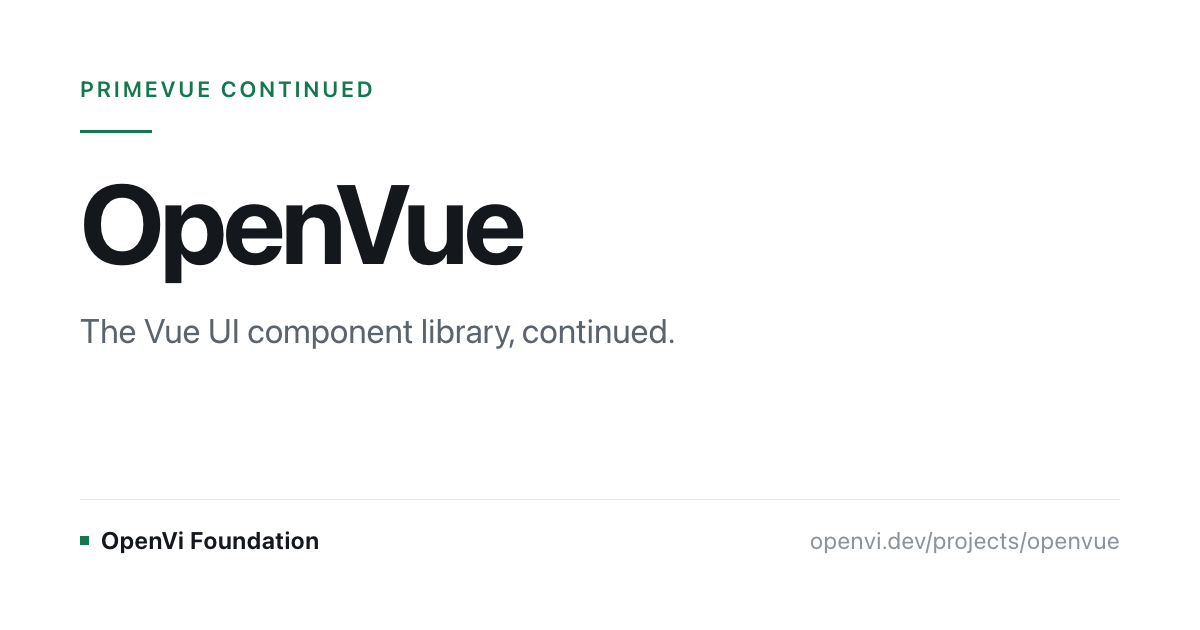
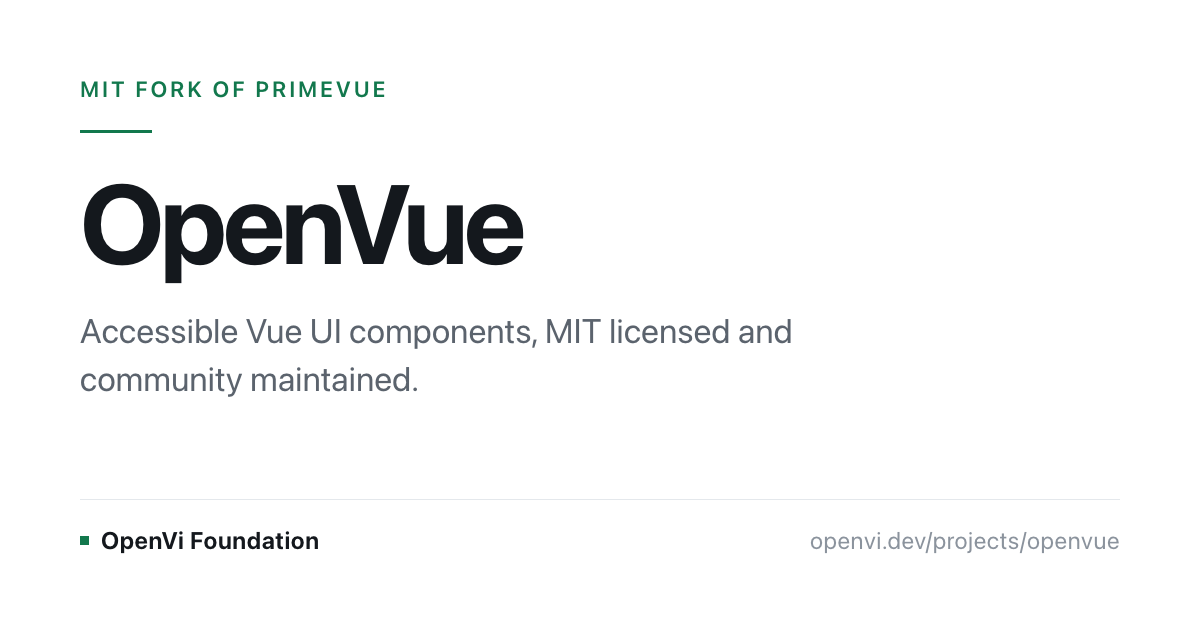
feat: changed content of website

Changed region(s): [[0.0617, 0.5127, 0.6783, 0.5429], [0.0617, 0.573, 0.3392, 0.6333], [0.0617, 0.1206, 0.3392, 0.1508]]

diff --git a/src/data/projects.js b/src/data/projects.js
@@ -2,7 +2,7 @@ export const projects = [
     {
         slug: 'openvue',
         name: 'OpenVue',
-        tagline: 'The Vue UI component library, continued.',
+        tagline: 'Accessible Vue UI components, MIT licensed and community maintained.',
         status: 'stable',
         version: '1.1.0',
         repo: 'https://github.com/openvi-foundation/openvue',
@@ -13,9 +13,9 @@ export const projects = [
         install: 'npm install openvue @openvue/themes',
         language: 'Vue',
         license: 'MIT',
-        continues: 'PrimeVue',
-        upstreamStatus: 'Security fixes only',
-        upstreamNote: 'security fixes only upstream, new development no longer MIT',
+        forkedFrom: 'PrimeVue',
+        upstreamStatus: 'v4: security fixes only',
+        upstreamNote: 'PrimeVue 4 gets security fixes only, PrimeVue 5 is not MIT',
         guides: [
             {
                 href: '/projects/openvue/migrate',
@@ -37,12 +37,12 @@ export const projects = [
             }
         ],
         summary:
-            'A community-maintained continuation of PrimeVue, one of the most widely adopted Vue.js component libraries, picked up after its MIT-licensed 4.x line stopped moving. 80+ accessible, themeable components for Vue and Nuxt.',
+            'A community-maintained fork of PrimeVue 4.5.5, the last PrimeVue release under the MIT license, developed independently by the OpenVi Foundation. 80+ accessible, themeable components for Vue and Nuxt.',
         metaDescription:
-            'OpenVue is the maintained continuation of PrimeVue: 80+ accessible Vue and Nuxt components, an unchanged API, MIT licensed. Migrate with one command.',
+            'OpenVue is an MIT-licensed fork of PrimeVue 4.5.5: 80+ accessible Vue and Nuxt components with a compatible API. Migrate with one command.',
         why: [
-            'PrimeVue 4 was archived, then reopened for security fixes only. New development moved to PrimeVue 5 under a license that is no longer MIT, while a lot of production applications still depend on the MIT 4.x line. Teams running it were left choosing between freezing the dependency, accepting a new license and rewriting their UI layer.',
-            'OpenVue keeps the same component API, so existing code keeps working. The MIT license is unchanged and stays that way.',
+            'PrimeVue 4 now receives security fixes only, and new development moved to PrimeVue 5 under a license that is not MIT, while a lot of production applications still depend on the MIT 4.x line. Teams running it were left choosing between freezing the dependency, accepting a new license and rewriting their UI layer.',
+            'OpenVue keeps the same component API, so existing code keeps working. The MIT license that PrimeVue 4.5.5 was released under permits the fork, PrimeTek\'s copyright notice is kept in every package, and OpenVue stays MIT.',
             'We forked the whole toolchain rather than just the components. The theming engine and the icon set are maintained here too, so nothing critical resolves at runtime from a scope we do not control.'
         ],
         highlights: [
@@ -67,7 +67,7 @@ export const projects = [
             guide: 'https://github.com/openvi-foundation/openvue/blob/master/CONTRIBUTING.md',
             setup: 'git clone https://github.com/openvi-foundation/openvue.git\ncd openvue\npnpm install\npnpm run dev',
             help: [
-                'Reproducing, triaging and fixing issues inherited from PrimeVue.',
+                'Reproducing, triaging and fixing issues that predate the fork.',
                 'Migration reports: anything `npx @openvue/migrate` misses in a real codebase.',
                 'Accessibility testing with real screen readers, reported against specific versions.',
                 'Documentation gaps on [openvue.dev](https://openvue.dev), especially theming and unstyled mode.'
@@ -88,7 +88,7 @@ export const projects = [
     {
         slug: 'openicons',
         name: 'OpenIcons',
-        tagline: 'The icon library for OpenVue, continued.',
+        tagline: 'An MIT-licensed icon set for OpenVue and the web.',
         status: 'stable',
         version: '1.1.0',
         repo: 'https://github.com/openvi-foundation/openicons',
@@ -99,21 +99,21 @@ export const projects = [
         install: 'npm install @openvue/openicons',
         language: 'CSS',
         license: 'MIT',
-        continues: 'PrimeIcons',
-        upstreamStatus: 'Archived',
+        forkedFrom: 'PrimeIcons',
+        upstreamStatus: 'MIT repository archived',
         summary:
-            'A community-maintained continuation of PrimeIcons, the icon font used by PrimeVue and the wider Prime ecosystem. 329 icons, shipped as a dependency-free webfont and as tree-shakeable Vue 3 components.',
+            'A community-maintained fork of PrimeIcons, the icon font used by PrimeVue. 329 icons, shipped as a dependency-free webfont and as tree-shakeable Vue 3 components.',
         metaDescription:
-            'OpenIcons is the maintained continuation of PrimeIcons: 329 icons as a dependency-free webfont or tree-shakeable Vue components. MIT licensed.',
+            'OpenIcons is an MIT-licensed fork of PrimeIcons: 329 icons as a dependency-free webfont or tree-shakeable Vue components. MIT licensed.',
         why: [
-            'The MIT-licensed PrimeIcons repository was archived, so every application using the `pi pi-*` classes needed a maintained replacement.',
+            'The MIT-licensed PrimeIcons repository was archived, so applications using the `pi pi-*` classes had no actively maintained MIT source to depend on.',
             'OpenIcons ships a compatibility stylesheet. Existing `pi-` class names keep rendering while a codebase moves to `oi-` at its own pace.',
             'The webfont has no dependencies, no build step and no runtime: it is a font and a stylesheet. Projects that would rather ship only the icons they use can import the Vue components instead.'
         ],
         highlights: [
             {
                 title: '329 icons',
-                body: 'The complete PrimeIcons set carried forward under an unchanged MIT license, plus sixteen icons drawn since the fork. Search them all at [openicons.openvue.dev](https://openicons.openvue.dev).'
+                body: 'Every icon from the PrimeIcons fork under the same MIT license, plus sixteen icons drawn since the fork. Search them all at [openicons.openvue.dev](https://openicons.openvue.dev).'
             },
             {
                 title: 'Webfont or Vue components',
@@ -156,15 +156,15 @@ export const projects = [
         install: 'npm install @openuxkit/themes',
         language: 'TypeScript',
         license: 'MIT',
-        continues: 'PrimeUIX',
-        upstreamStatus: 'Archived',
+        forkedFrom: 'PrimeUIX',
+        upstreamStatus: 'MIT repository archived',
         summary:
             'The styling and theming engine underneath OpenVue, forked from the last MIT-licensed PrimeUIX source and maintained independently. Framework-agnostic.',
         metaDescription:
-            'OpenUXKit is the maintained continuation of PrimeUIX: the framework-agnostic CSS-in-JS theming engine and design tokens behind OpenVue. MIT licensed.',
+            'OpenUXKit is an MIT-licensed fork of PrimeUIX: the framework-agnostic CSS-in-JS theming engine and design tokens behind OpenVue. MIT licensed.',
         why: [
-            'OpenVue used to resolve its theming engine at runtime from a package scope we do not control. That put the styling layer at the mercy of somebody else\'s licensing decisions.',
-            'OpenUXKit was taken from the last MIT-licensed PrimeUIX source, so the styling layer cannot be relicensed out from under the projects that depend on it.',
+            'OpenVue used to resolve its theming engine at runtime from a package scope we do not control, so a licensing change there would have reached every OpenVue project.',
+            'OpenUXKit was forked from the last MIT-licensed PrimeUIX source, so the styling layer cannot be relicensed out from under the projects that depend on it.',
             'It is framework-agnostic, so the same theming engine and design tokens can back component libraries outside Vue.'
         ],
         highlights: [
@@ -205,7 +205,7 @@ export const projects = [
     {
         slug: 'openvolt',
         name: 'OpenVolt',
-        tagline: 'Tailwind CSS components for OpenVue, continued.',
+        tagline: 'Tailwind CSS components for OpenVue that you copy and own.',
         status: 'stable',
         version: '1.1.0',
         repo: 'https://github.com/openvi-foundation/openvue/tree/master/packages/volt-cli',
@@ -216,16 +216,16 @@ export const projects = [
         install: 'npx openvolt-vue add Button',
         language: 'Vue',
         license: 'MIT',
-        continues: 'PrimeVue Volt',
-        upstreamStatus: 'Security fixes only',
-        upstreamNote: 'built on PrimeVue v4, now security-only upstream',
+        forkedFrom: 'PrimeVue Volt',
+        upstreamStatus: 'Built on PrimeVue 4',
+        upstreamNote: 'built on PrimeVue 4, which gets security fixes only',
         summary:
-            'A maintained continuation of Volt, the Tailwind CSS components built on unstyled PrimeVue. 69 components you copy into your project as plain .vue files and own from then on, built on OpenVue and released with it.',
+            'A community-maintained fork of Volt, the MIT-licensed Tailwind CSS components built on unstyled PrimeVue. 69 components you copy into your project as plain .vue files and own from then on, built on OpenVue and released with it.',
         metaDescription:
-            'OpenVolt continues PrimeVue Volt: 69 Tailwind CSS components for OpenVue that you copy into your project and own. Tested in CI, MIT licensed.',
+            'OpenVolt is an MIT-licensed fork of PrimeVue Volt: 69 Tailwind CSS components for OpenVue that you copy into your project and own. Tested in CI, MIT licensed.',
         why: [
-            'Volt depends on PrimeVue v4, which has moved to security-only maintenance with a read-only issue tracker. Projects built on Volt had nowhere to report a broken component.',
-            'OpenVolt is the same 69 components and the same design, rebuilt on `openvue` instead of `primevue`. It lives in the OpenVue repository and ships with every OpenVue release, so the components and the library underneath them cannot drift apart.',
+            'Volt depends on PrimeVue 4, which now receives security fixes only, so projects built on Volt had no actively developed MIT line underneath them.',
+            'OpenVolt is the same 69 components and the same design under the same MIT license, rebuilt on `openvue` instead of `primevue`. It lives in the OpenVue repository and ships with every OpenVue release, so the components and the library underneath them cannot drift apart.',
             'The upstream CLI cloned the repository and copied whatever was on the main branch at that moment. The OpenVolt CLI carries its components inside the published package, so an install always gives you files from a release, matched to your OpenVue version.'
         ],
         highlights: [

diff --git a/src/data/articles.js b/src/data/articles.js
@@ -8,7 +8,7 @@ const sources = {
 export const articles = [
     {
         slug: 'primevue-v4-stopped-active-dev-openvue-takes-over',
-        title: 'PrimeVue v4 stopped active development. OpenVue takes over, on MIT.',
+        title: 'PrimeVue v4 moved to security-only maintenance. OpenVue forks it, on MIT.',
         kind: 'article',
         date: '2026-08-29',
         author: 'Nikola Jevrić',
@@ -21,7 +21,7 @@ export const articles = [
         summary:
             'What security-only maintenance means for teams running PrimeVue v4 in production, and why the foundation forked 4.5.5 rather than let the MIT line stop there.',
         metaDescription:
-            'PrimeVue v4 moved to security-only maintenance. OpenVue continues 4.5.5 under MIT, with the same API and a one-command migration.',
+            'PrimeVue v4 moved to security-only maintenance. OpenVue is an MIT fork of 4.5.5, with the same API and a one-command migration.',
         body: [
             {
                 t: 'p',
@@ -38,7 +38,7 @@ export const articles = [
             { t: 'p', text: 'To address this gap, we launched [OpenVue](https://openvue.dev/).' },
             {
                 t: 'p',
-                text: 'OpenVue is an independent, community-driven continuation of PrimeVue 4.5.5, the final release under open-source governance. Maintained under the [OpenVi Foundation](https://openvi.dev), it operates as a fully open-source, MIT-licensed ecosystem free from commercial gating or paywalled functionality. It maintains total architectural fidelity across 80+ core components, preserving full parity with existing props, slots, events, and theming systems, while unifying icon sets and design tooling under a single ecosystem.'
+                text: 'OpenVue is an independent, community-driven fork of PrimeVue 4.5.5, the last PrimeVue release under the MIT license. Maintained under the [OpenVi Foundation](https://openvi.dev), it operates as a fully open-source, MIT-licensed ecosystem. It maintains total architectural fidelity across 80+ core components, preserving full parity with existing props, slots, events, and theming systems, while unifying icon sets and design tooling under a single ecosystem.'
             },
             {
                 t: 'p',
@@ -46,7 +46,7 @@ export const articles = [
             },
             {
                 t: 'p',
-                text: 'You can run the official CLI migration utility to update your project automatically:'
+                text: 'You can run the OpenVue migration CLI to update your project automatically:'
             },
             { t: 'code', lang: 'shell', code: 'npx @openvue/migrate' },
             {
@@ -56,7 +56,7 @@ export const articles = [
             {
                 t: 'code',
                 lang: 'diff',
-                code: "- import Button from 'primevue/button'\n+ import Button from '@openvue/button'"
+                code: "- import Button from 'primevue/button'\n+ import Button from 'openvue/button'"
             },
             {
                 t: 'p',
@@ -68,7 +68,7 @@ export const articles = [
             },
             {
                 t: 'note',
-                text: 'OpenVue is an independent, community-maintained MIT project based on the PrimeVue 4.5.5 release and is not affiliated with PrimeTek.'
+                text: 'OpenVue is an independent, community-maintained MIT fork of the PrimeVue 4.5.5 release and is not affiliated with, sponsored by, or endorsed by PrimeTek. PrimeVue is a name of its respective owner.'
             }
         ]
     },
@@ -257,11 +257,11 @@ export const articles = [
             { t: 'p', text: 'Hey Vue community!' },
             {
                 t: 'p',
-                text: "We're long-time PrimeVue users who believe a good UI library should stay free and community driven. When the license changed and PrimeVue moved away from open source, we decided to take action rather than just watch."
+                text: "We're long-time PrimeVue users who believe a good UI library should stay free and community driven. When new PrimeVue development moved to a license that is not MIT, we decided to fork the last MIT release rather than just watch."
             },
             {
                 t: 'p',
-                text: 'OpenVue picks up right from 4.5.5, the last MIT release. It keeps the exact same API, so your existing code keeps working without rewrite headaches.'
+                text: 'OpenVue is forked from 4.5.5, the last MIT release. It keeps the exact same API, so your existing code keeps working without rewrite headaches.'
             },
             {
                 t: 'p',
@@ -273,7 +273,7 @@ export const articles = [
             },
             {
                 t: 'p',
-                text: 'OpenVi Foundation is an independent community organization, not affiliated with PrimeTek.'
+                text: 'OpenVi Foundation is an independent community organization, not affiliated with or endorsed by PrimeTek.'
             },
             { t: 'p', text: 'OpenVue is and will always be 100% free and open source.' },
             {
@@ -387,7 +387,7 @@ export const articles = [
             },
             {
                 t: 'p',
-                text: 'When we forked PrimeVue 4.5.5 as [OpenVue](https://openvue.dev/), the goal was to keep the whole MIT ecosystem alive, not only the component library. Volt was the piece still missing, and with OpenVolt it is back: maintained, tested and released together with OpenVue.'
+                text: 'When we forked PrimeVue 4.5.5 as [OpenVue](https://openvue.dev/), the goal was to keep the whole MIT ecosystem alive, not only the component library. Volt was the piece still missing, and OpenVolt is our MIT fork of it: maintained, tested and released together with OpenVue.'
             },
             { t: 'h2', text: 'What is Volt?' },
             {
@@ -405,7 +405,7 @@ export const articles = [
             },
             {
                 t: 'p',
-                text: 'PrimeVue Volt depends on PrimeVue v4, which has moved to security-only maintenance with read-only issue tracking. OpenVolt lives in the OpenVue repository, ships with every OpenVue release, and has an open issue tracker if something needs fixing.'
+                text: 'PrimeVue Volt depends on PrimeVue v4, which has moved to security-only maintenance. OpenVolt lives in the OpenVue repository, ships with every OpenVue release, and has an open issue tracker if something needs fixing.'
             },
             { t: 'h2', text: 'Why OpenVolt' },
             {
@@ -481,7 +481,7 @@ export const articles = [
             },
             {
                 t: 'note',
-                text: 'OpenVue and OpenVolt are independent, community-maintained MIT projects and are not affiliated with PrimeTek or PrimeUI. Volt was created by PrimeTek; OpenVolt continues it under the same MIT license.'
+                text: 'OpenVue and OpenVolt are independent, community-maintained MIT projects and are not affiliated with, sponsored by, or endorsed by PrimeTek. Volt was created by PrimeTek; OpenVolt is a fork of it under the same MIT license, with PrimeTek\'s copyright notice kept.'
             }
         ]
     }

diff --git a/src/data/faq.js b/src/data/faq.js
@@ -1,11 +1,11 @@
 export const faq = [
     {
         q: 'What is the OpenVi Foundation?',
-        a: 'An independent, community-run organization that maintains open source UI libraries for the web. It picks up widely used front-end libraries after their original maintainers stop, and keeps them released, documented and MIT licensed.'
+        a: 'An independent, community-run organization that maintains open source UI libraries for the web. It forks widely used MIT-licensed front-end libraries when their MIT line stops being developed, and keeps those forks released, documented and MIT licensed.'
     },
     {
         q: 'Which projects does the foundation maintain?',
-        a: 'Four libraries: [OpenVue](https://openvue.dev), the Vue component library that continues PrimeVue; [OpenVolt](https://openvolt.openvue.dev), Tailwind CSS components for OpenVue that continue Volt; [OpenIcons](https://openicons.openvue.dev), which continues PrimeIcons; and [OpenUXKit](/projects/openux), the theming engine that continues PrimeUIX. It also publishes templates and starters such as the [Deni](https://deni.openvue.dev) admin dashboard.'
+        a: 'Four libraries, each an MIT-licensed fork: [OpenVue](https://openvue.dev), the Vue component library forked from PrimeVue 4.5.5; [OpenVolt](https://openvolt.openvue.dev), Tailwind CSS components forked from Volt; [OpenIcons](https://openicons.openvue.dev), forked from PrimeIcons; and [OpenUXKit](/projects/openux), the theming engine forked from PrimeUIX. It also publishes templates and starters such as the [Deni](https://deni.openvue.dev) admin dashboard.'
     },
     {
         q: 'Are the projects free to use commercially?',
@@ -25,7 +25,7 @@ export const faq = [
     },
     {
         q: 'Is the foundation affiliated with PrimeTek?',
-        a: 'No. The OpenVi Foundation is not affiliated with, sponsored by, or endorsed by PrimeTek Informatics or PrimeUI. The projects continue upstream work under its original MIT license, with attribution.'
+        a: 'No. The OpenVi Foundation is not affiliated with, sponsored by, or endorsed by PrimeTek Informatics or PrimeUI. The projects are forks made under the MIT license the original code was released with, and they keep PrimeTek\'s copyright notice. PrimeVue, PrimeIcons, PrimeUIX, Volt and PrimeTek are names of their respective owners, used here only to describe where the code came from.'
     }
 ];
 

diff --git a/src/data/site.js b/src/data/site.js
@@ -2,9 +2,9 @@ export const site = {
     name: 'OpenVi Foundation',
     url: 'https://openvi.dev',
     tagline: 'We maintain open source UI libraries for the web.',
-    seoTagline: 'The home of OpenVue, PrimeVue continued',
+    seoTagline: 'The home of OpenVue, the MIT fork of PrimeVue',
     description:
-        'The OpenVi Foundation maintains open source UI libraries for the web: OpenVue, OpenUXKit and OpenIcons. Community run and permanently MIT licensed.',
+        'The OpenVi Foundation maintains open source UI libraries for the web: OpenVue, OpenVolt, OpenUXKit and OpenIcons. Community run and permanently MIT licensed.',
     email: 'contact@openvi.dev',
     github: 'https://github.com/openvi-foundation',
     docs: 'https://openvue.dev',

diff --git a/src/data/roadmap.js b/src/data/roadmap.js
@@ -48,7 +48,7 @@ export const roadmap = [
             {
                 status: 'done',
                 date: '2026-10-21',
-                title: 'Bring Volt back',
+                title: 'Fork Volt as OpenVolt',
                 text: '[OpenVolt](/projects/openvolt) is live: `npx openvolt-vue` copies Tailwind-native components into your own codebase.'
             },
             {

diff --git a/src/styles/global.css b/src/styles/global.css
@@ -1324,7 +1324,7 @@ hr {
     inset: 0;
 }
 
-.project-tile-continues {
+.project-tile-origin {
     margin: 0.3rem 0 0;
     font-size: 0.8125rem;
     color: var(--text-faint);
